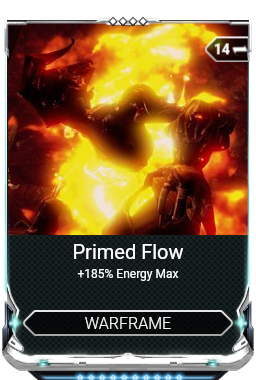
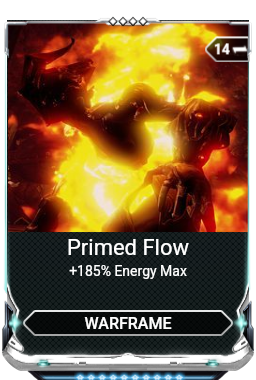
feat: add the ability to generate "collapsed" version of mods (#233)

diff --git a/src/drawers.ts b/src/drawers.ts
@@ -2,7 +2,7 @@ import { type Canvas, createCanvas, type Image, ImageData, loadImage } from '@na
 import type { Mod, ModSet } from 'warframe-items';
 import { find } from 'warframe-items/utilities';
 
-import { descriptionFont, modRarityMap, titleFont } from './styling.js';
+import { compatNameFont, descriptionFont, modRarityMap, titleFont } from './styling.js';
 import {
   fetchModPiece,
   fetchPolarity,
@@ -10,8 +10,10 @@ import {
   getTier,
   hexToRGB,
   modDescription,
+  shadePixel,
   textColor,
   textHeight,
+  tintPixel,
   wrapText,
 } from './utils.js';
 
@@ -36,7 +38,6 @@ const drawPolarity = async (tier: string, polarity: string): Promise<Canvas> => 
 };
 
 export const drawHeader = async (image: Image, tier: string): Promise<Image> => {
-  const maxColors = 255;
   const canvas = createCanvas(image.width, image.height);
   const context = canvas.getContext('2d');
 
@@ -48,15 +49,42 @@ export const drawHeader = async (image: Image, tier: string): Promise<Image> => 
   for (let i = 0; i < data.length; i += 4) {
     const alpha = data[i + 3];
     if (alpha > 0) {
-      const brightness = (data[i] + data[i + 1] + data[i + 2]) / 3 / maxColors;
+      let pixel = { r: data[i], g: data[i + 1], b: data[i + 2] };
+      pixel = tintPixel(pixel, color, 0.8);
 
-      // Adjust these values to control darkness
-      const originalWeight = 0.2;
-      const tintWeight = 0.8; // lower values for darker tint
+      data[i] = pixel.r;
+      data[i + 1] = pixel.g;
+      data[i + 2] = pixel.b;
+    }
+  }
 
-      data[i] = Math.min(maxColors, data[i] * originalWeight + color.r * brightness * tintWeight);
-      data[i + 1] = Math.min(maxColors, data[i + 1] * originalWeight + color.g * brightness * tintWeight);
-      data[i + 2] = Math.min(maxColors, data[i + 2] * originalWeight + color.b * brightness * tintWeight);
+  context.putImageData(new ImageData(data, image.width, image.height), 0, 0);
+
+  return loadImage(await canvas.encode('png'));
+};
+
+/**
+ * Darkens the given image
+ * @param image Image to darken
+ * @returns
+ */
+export const shadeImage = async (image: Image): Promise<Image> => {
+  const canvas = createCanvas(image.width, image.height);
+  const context = canvas.getContext('2d');
+
+  context.drawImage(image, 0, 0);
+
+  const { data } = context.getImageData(0, 0, image.width, image.height);
+
+  for (let i = 0; i < data.length; i += 4) {
+    const alpha = data[i + 3];
+    if (alpha > 0) {
+      let pixel = { r: data[i], g: data[i + 1], b: data[i + 2] };
+      pixel = shadePixel(pixel, 0.7);
+
+      data[i] = pixel.r;
+      data[i + 1] = pixel.g;
+      data[i + 2] = pixel.b;
     }
   }
 
@@ -142,12 +170,12 @@ export const lowerTabImage = async (props: LowerTabProps): Promise<Canvas> => {
   context.drawImage(lowerTab, 0, 0);
 
   if (compatName) {
-    context.font = '300 16px "Roboto"';
+    context.font = compatNameFont;
     context.textAlign = 'center';
     context.textBaseline = 'middle';
     context.fillStyle = textColor(tier);
 
-    context.fillText(compatName, canvas.width * 0.5, canvas.height * 0.5);
+    context.fillText(compatName.toUpperCase(), canvas.width * 0.5, canvas.height * 0.5);
   }
 
   return canvas;
@@ -182,7 +210,7 @@ export const backgroundImage = async (props: BackgroundProps): Promise<Canvas> =
 
   context.drawImage(background, 0, 0);
 
-  const maxWidth = background.width * 0.8;
+  const maxWidth = background.width * 0.85;
   const description = modDescription(rank ?? 0, mod.description, mod.levelStats);
   const lines = description?.split('\n');
 
@@ -213,7 +241,6 @@ export const backgroundImage = async (props: BackgroundProps): Promise<Canvas> =
   context.textAlign = 'center';
   context.textBaseline = 'middle';
   context.font = titleFont;
-
   context.fillText(mod.name, canvas.width * 0.5, position + horizontalPad * 2);
 
   position += horizontalPad + lineSpacing;
@@ -345,7 +372,7 @@ export const bottomImage = async (props: BottomImageProps): Promise<Canvas> => {
   if (rank === maxRank) context.drawImage(rankCompleted, 0, slotLineHeight);
 
   let rankSlotStart = canvas.width * 0.29;
-  if (maxRank <= 3) rankSlotStart = canvas.width * 0.43;
+  if (maxRank <= 3) rankSlotStart = canvas.width * 0.425;
   if (maxRank <= 5 && maxRank >= 4) rankSlotStart = canvas.width * 0.39;
 
   for (let i = 0; i < maxRank; i += 1) {

diff --git a/src/generator.ts b/src/generator.ts
@@ -1,9 +1,18 @@
-import { createCanvas } from '@napi-rs/canvas';
+import { createCanvas, loadImage } from '@napi-rs/canvas';
 import type { Mod } from 'warframe-items';
 
-import { backgroundImage, bottomImage, drawHeader, horizontalPad } from './drawers';
-import { modRarityMap } from './styling';
-import { type CanvasOutput, exportCanvas, fetchHeader, getBackground, getFrame, getTier, registerFonts } from './utils';
+import { backgroundImage, bottomImage, drawHeader, horizontalPad, shadeImage } from './drawers';
+import { modRarityMap, titleFont } from './styling';
+import {
+  type CanvasOutput,
+  exportCanvas,
+  fetchHeader,
+  getBackground,
+  getFrame,
+  getTier,
+  registerFonts,
+  textColor,
+} from './utils';
 
 export interface GenerateModProps {
   mod: Mod;
@@ -12,6 +21,79 @@ export interface GenerateModProps {
   image?: string;
   output?: CanvasOutput;
 }
+
+export const generateCollapsed = async (props: GenerateModProps): Promise<Buffer<ArrayBufferLike> | undefined> => {
+  registerFonts();
+
+  const { mod, output, rank, image } = props;
+  const tier = getTier(mod);
+  const isRiven = tier === modRarityMap.riven;
+
+  const canvas = createCanvas(isRiven ? 292 : 256, 256);
+  const context = canvas.getContext('2d');
+
+  const { cornerLights, bottom, top } = await getFrame(tier);
+
+  if (mod.imageName || image) {
+    const thumb = await loadImage(image ?? `https://cdn.warframestat.us/img/${mod.imageName}`);
+    const thumbWidth = canvas.width - horizontalPad * 2;
+    const thumbHeight = top.height / 2 + bottom.height / 2;
+    const shadedImage = await shadeImage(thumb);
+
+    context.drawImage(shadedImage, top.width * 0.03, top.height * 0.3, thumbWidth, thumbHeight);
+  }
+
+  context.fillStyle = textColor(tier);
+  context.textAlign = 'center';
+  context.textBaseline = 'middle';
+  context.font = titleFont;
+  context.fillText(mod.name, canvas.width * 0.5, top.height);
+
+  context.drawImage(top, 0, 0);
+
+  if (mod.modSet) {
+    const header = await fetchHeader(mod.modSet);
+    context.drawImage(await drawHeader(header, tier), top.width * 0.35, 0, header.width * 0.6, header.height * 0.6);
+  }
+
+  const positionY = top.height * 0.5;
+  if (bottom.width > canvas.width) {
+    const newXPadding = horizontalPad * 5;
+    const widthDiff = bottom.width - canvas.width - newXPadding;
+
+    context.drawImage(
+      await bottomImage({
+        bottom,
+        cornerLights,
+        tier,
+        max: mod.fusionLimit,
+        rank,
+      }),
+      -widthDiff / 2,
+      positionY
+    );
+  } else {
+    context.drawImage(
+      await bottomImage({
+        bottom,
+        cornerLights,
+        tier,
+        max: mod.fusionLimit,
+        rank,
+      }),
+      0,
+      positionY
+    );
+  }
+
+  const outterCanvas = createCanvas(isRiven ? 292 : 256, isRiven ? 180 : 150);
+  const outterContext = outterCanvas.getContext('2d');
+
+  outterContext.drawImage(canvas, 0, 0);
+
+  return exportCanvas(outterCanvas, output ?? { format: 'png' });
+};
+
 /**
  * Generates a complete mod image
  *
@@ -31,6 +113,8 @@ export interface GenerateModProps {
  * @returns {Promise<Buffer<ArrayBufferLike> | undefined>}
  */
 const generate = async (props: GenerateModProps): Promise<Buffer<ArrayBufferLike> | undefined> => {
+  registerFonts();
+
   // All values here should be percentages based on the background size and NOT on the canvas size.
   // The reason for this is that special mod pieces have a bigger width then the base 256 width of the background,
   // so the canvas has to be big enough to keep those parts in view.
@@ -46,8 +130,6 @@ const generate = async (props: GenerateModProps): Promise<Buffer<ArrayBufferLike
 
   const centerX = (canvas.width - background.width) / 2;
   const centerY = (canvas.height - background.height) / 2;
-
-  registerFonts();
 
   const backgroundGen = await backgroundImage({
     background,

diff --git a/src/utils.ts b/src/utils.ts
@@ -206,10 +206,32 @@ export interface RGB {
 }
 
 export const hexToRGB = (hex: string): RGB => {
-  const values = hex.slice(1).match(/.{2}/g);
-  if (!values || values.length < 3) throw Error('Invalid Hex color');
+  const r = parseInt(hex.slice(1, 3), 16);
+  const g = parseInt(hex.slice(3, 5), 16);
+  const b = parseInt(hex.slice(5, 7), 16);
 
-  const colors = values.map((x) => parseInt(x, 16));
+  return { r, g, b };
+};
 
-  return { r: colors[0], g: colors[1], b: colors[2] };
+// https://medium.com/@carlosabpreciado/adding-tint-shade-dynamically-to-a-color-with-javascript-or-any-language-fa5b51ef5777
+export const shadePixel = (pixel: RGB, percentage: number): RGB => {
+  const redShade = Math.round(Math.max(0, pixel.r - pixel.r * percentage));
+  const greenShade = Math.round(Math.max(0, pixel.g - pixel.g * percentage));
+  const blueShade = Math.round(Math.max(0, pixel.b - pixel.b * percentage));
+
+  return { r: redShade, g: greenShade, b: blueShade };
+};
+
+export const tintPixel = (pixel: RGB, tint: RGB, percentage: number = 0.8): RGB => {
+  const maxColors = 255;
+
+  // Adjust these values to control darkness
+  const originalWeight = 0.2;
+  const brightness = (pixel.r + pixel.g + pixel.b) / 3 / maxColors;
+
+  const tintedRed = Math.min(maxColors, pixel.r * originalWeight + tint.r * brightness * percentage);
+  const tintedGreen = Math.min(maxColors, pixel.g * originalWeight + tint.g * brightness * percentage);
+  const tintedBlue = Math.min(maxColors, pixel.b * originalWeight + tint.b * brightness * percentage);
+
+  return { r: tintedRed, g: tintedGreen, b: tintedBlue };
 };

diff --git a/tests/generator.spec.ts b/tests/generator.spec.ts
@@ -7,7 +7,7 @@ import { describe, test } from 'mocha';
 import type { Mod } from 'warframe-items';
 import { find } from 'warframe-items/utilities';
 
-import generate from '../src/generator.js';
+import generate, { generateCollapsed } from '../src/generator.js';
 import type { Format } from '../src/utils.js';
 
 describe('Generate a mod', () => {
@@ -36,10 +36,12 @@ describe('Generate a mod', () => {
           const mod = find.findItem(mods[i]) as Mod;
 
           if (!mod) return;
-          const modCanvas = await generate({ mod, rank: mod.fusionLimit, output: { format } });
-          assert.ok(modCanvas);
+          const modFull = await generate({ mod, rank: mod.fusionLimit, output: { format } });
+          const modMin = await generateCollapsed({ mod, rank: mod.fusionLimit, output: { format } });
+          assert.ok(modFull);
 
-          if (modCanvas) await writeFile(join(imagePath, `${mod.name.replaceAll(' ', '_')}.${format}`), modCanvas);
+          if (modFull) await writeFile(join(imagePath, `${mod.name.replaceAll(' ', '_')}.${format}`), modFull);
+          if (modMin) await writeFile(join(imagePath, `${mod.name.replaceAll(' ', '_')}_collpased.${format}`), modMin);
         })
       );
     }
@@ -47,7 +49,7 @@ describe('Generate a mod', () => {
     await Promise.all(
       formats.map(async (format) => {
         const testFiles = await readdir(join(testPath, format));
-        assert.equal(testFiles.length, mods.length);
+        assert.equal(testFiles.length, mods.length * 2);
       })
     );
   });

diff --git a/src/styling.ts b/src/styling.ts
@@ -1,5 +1,6 @@
-export const titleFont = '400 20px "Roboto"';
-export const descriptionFont = '12px "Roboto"';
+export const titleFont = '400 22px "Roboto"';
+export const descriptionFont = '14px "Roboto"';
+export const compatNameFont = '500 16px "Roboto"';
 
 type UniquenameType = {
   [key: string]: string;

diff --git a/README.md b/README.md
@@ -4,15 +4,25 @@
 [![semantic-release: angular](https://img.shields.io/badge/semantic--release-angular-e10079?logo=semantic-release)](https://github.com/semantic-release/semantic-release)
 
 # mod-generator
-Generate mod images using warframe-items
+Assembles [Mod Assets](https://wiki.warframe.com/w/Mod/Assets) into full/collapsed mod images using warframe-items
 
-![Afterburn](/assets/readme/Afterburn.png)
+Supported Mod Types:
+- The four basic mods (common, uncommon, rare, primed)
+- Rivens
+
+## Collapsed
+____
+![Augur Message](/assets/readme/Augur_Message_collpased.png)
+![Steel Charge](/assets/readme/Steel_Charge_collpased.png)
+![Afterburn](/assets/readme/Afterburn_collpased.png)
+![Primed Flow](/assets/readme/Primed_Flow_collpased.png)
+
+## Expanded
+____
+![Augur Message](/assets/readme/Augur_Message.png)
 ![Steel Charge](/assets/readme/Steel_Charge.png)
-![Vitality](/assets/readme/Vitality.png)
-![Archgun Riven Mod](/assets/readme/Archgun_Riven_Mod.png)
+![Afterburn](/assets/readme/Afterburn.png)
 ![Primed Flow](/assets/readme/Primed_Flow.png)
-![Auger Message](/assets/readme/Augur_Message_empty.png)
-![Auger Message Full](/assets/readme/Augur_Message_filled.png)
 
 ## Documentation
 
@@ -30,7 +40,9 @@ $ npm i -S mod-generator
 import { find } from 'warframe-items/utilities';
 
 const mod = find.findItem('/Lotus/Powersuits/Dragon/DragonBreathAugmentCard');
-const image = generate(mod, 3); // You can set rank to whatever rank you want by default is 0
+const expanded = generate(mod, 3); // You can set rank to whatever rank you want by default is 0
+const collapsed = generateCollapsed(mod, 3);
 
-writeFileSync('directory/image.png', image);
+writeFileSync('directory/expanded.png', expanded);
+writeFileSync('directory/collapsed.png', collpased);
 ```
